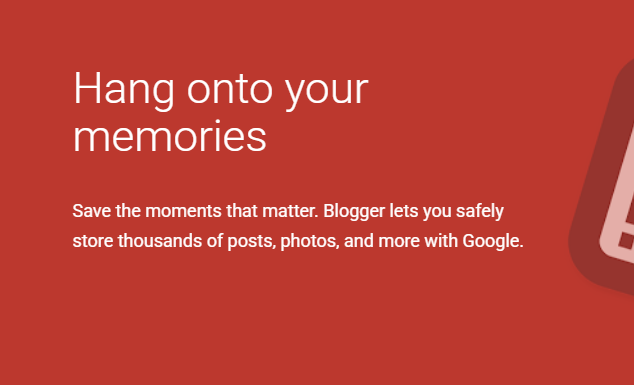
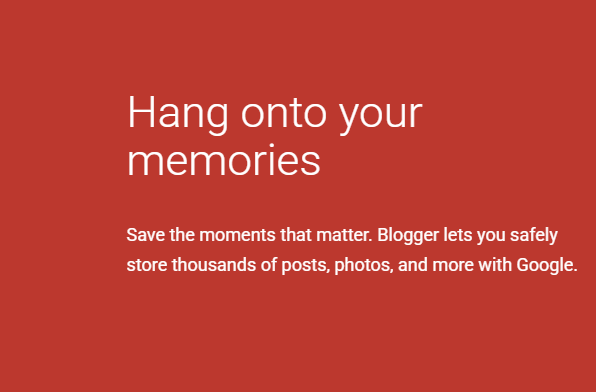
static files

Changed region(s): [[0.0906, 0.1558, 1.0, 0.7792], [0.0906, 0.187, 0.7248, 0.4675]]

diff --git a/myBlog/templates/index.html b/myBlog/templates/index.html
@@ -56,7 +56,7 @@
                 </div>
                 <div class="absolute inset-0 w-full h-full bg-cover bg-center shadow-md transition-transform duration-700 slide" style="background-image: url('{% static "images/ssss.png" %}');">
                 </div>
-                <div class="absolute inset-0 w-full h-full bg-cover bg-center shadow-md transition-transform duration-700 slide" style="background-image: url('{% static "images/glass.png" %}');">
+                <div class="absolute inset-0 w-full h-full bg-cover bg-center shadow-md transition-transform duration-700 slide" style="background-image: url('{% static "images/red.png" %}');">
                 </div>
                 <div class="absolute inset-0 w-full h-full bg-cover bg-center shadow-md transition-transform duration-700 slide" style="background-image: url('{% static "images/diy.png" %}');">
                 </div>
